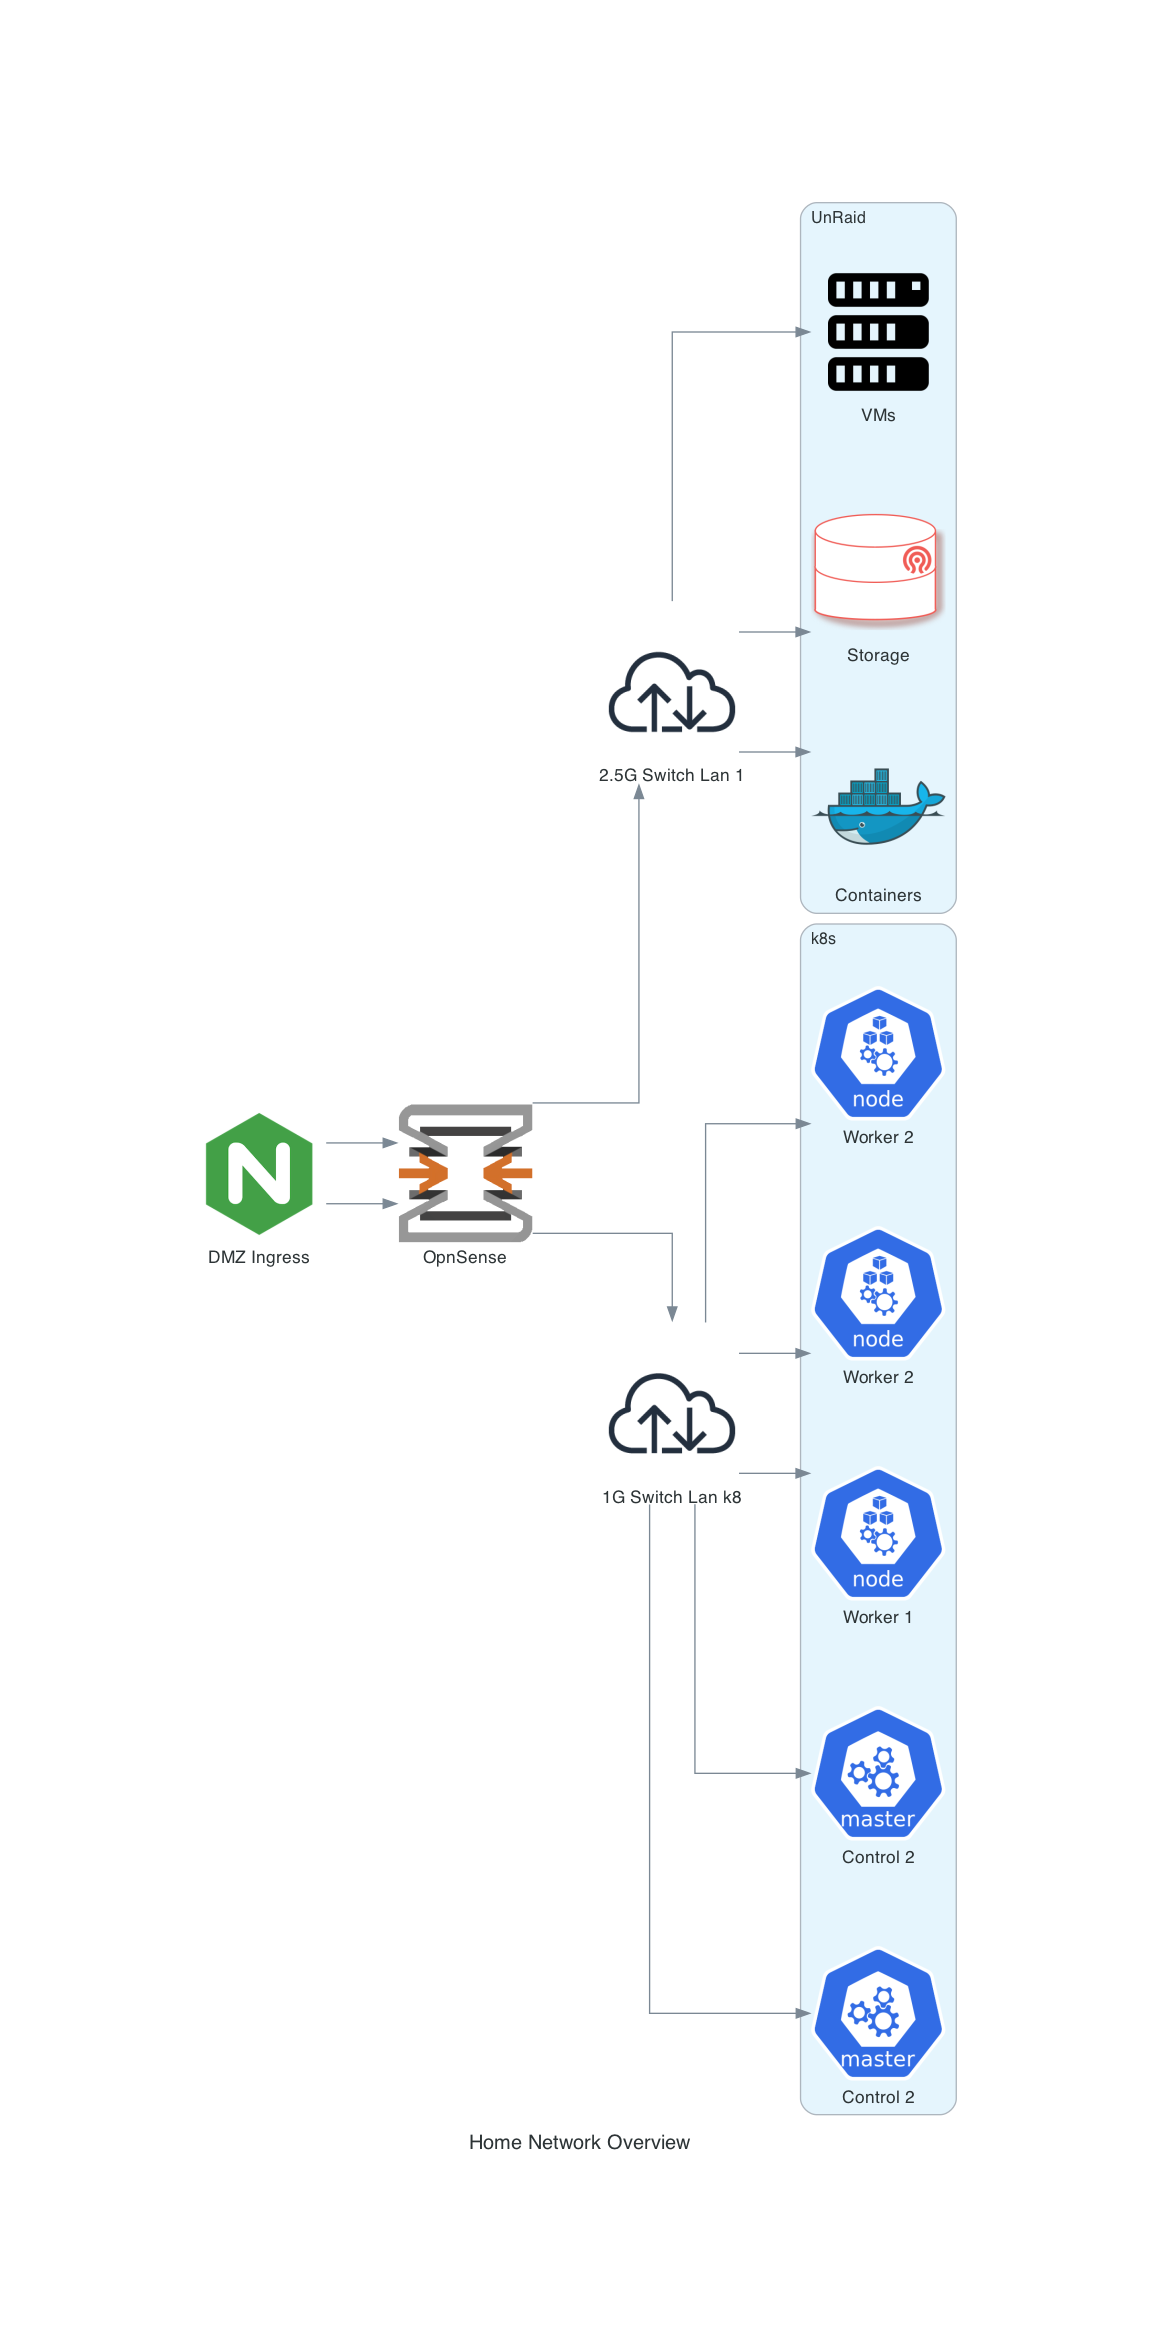
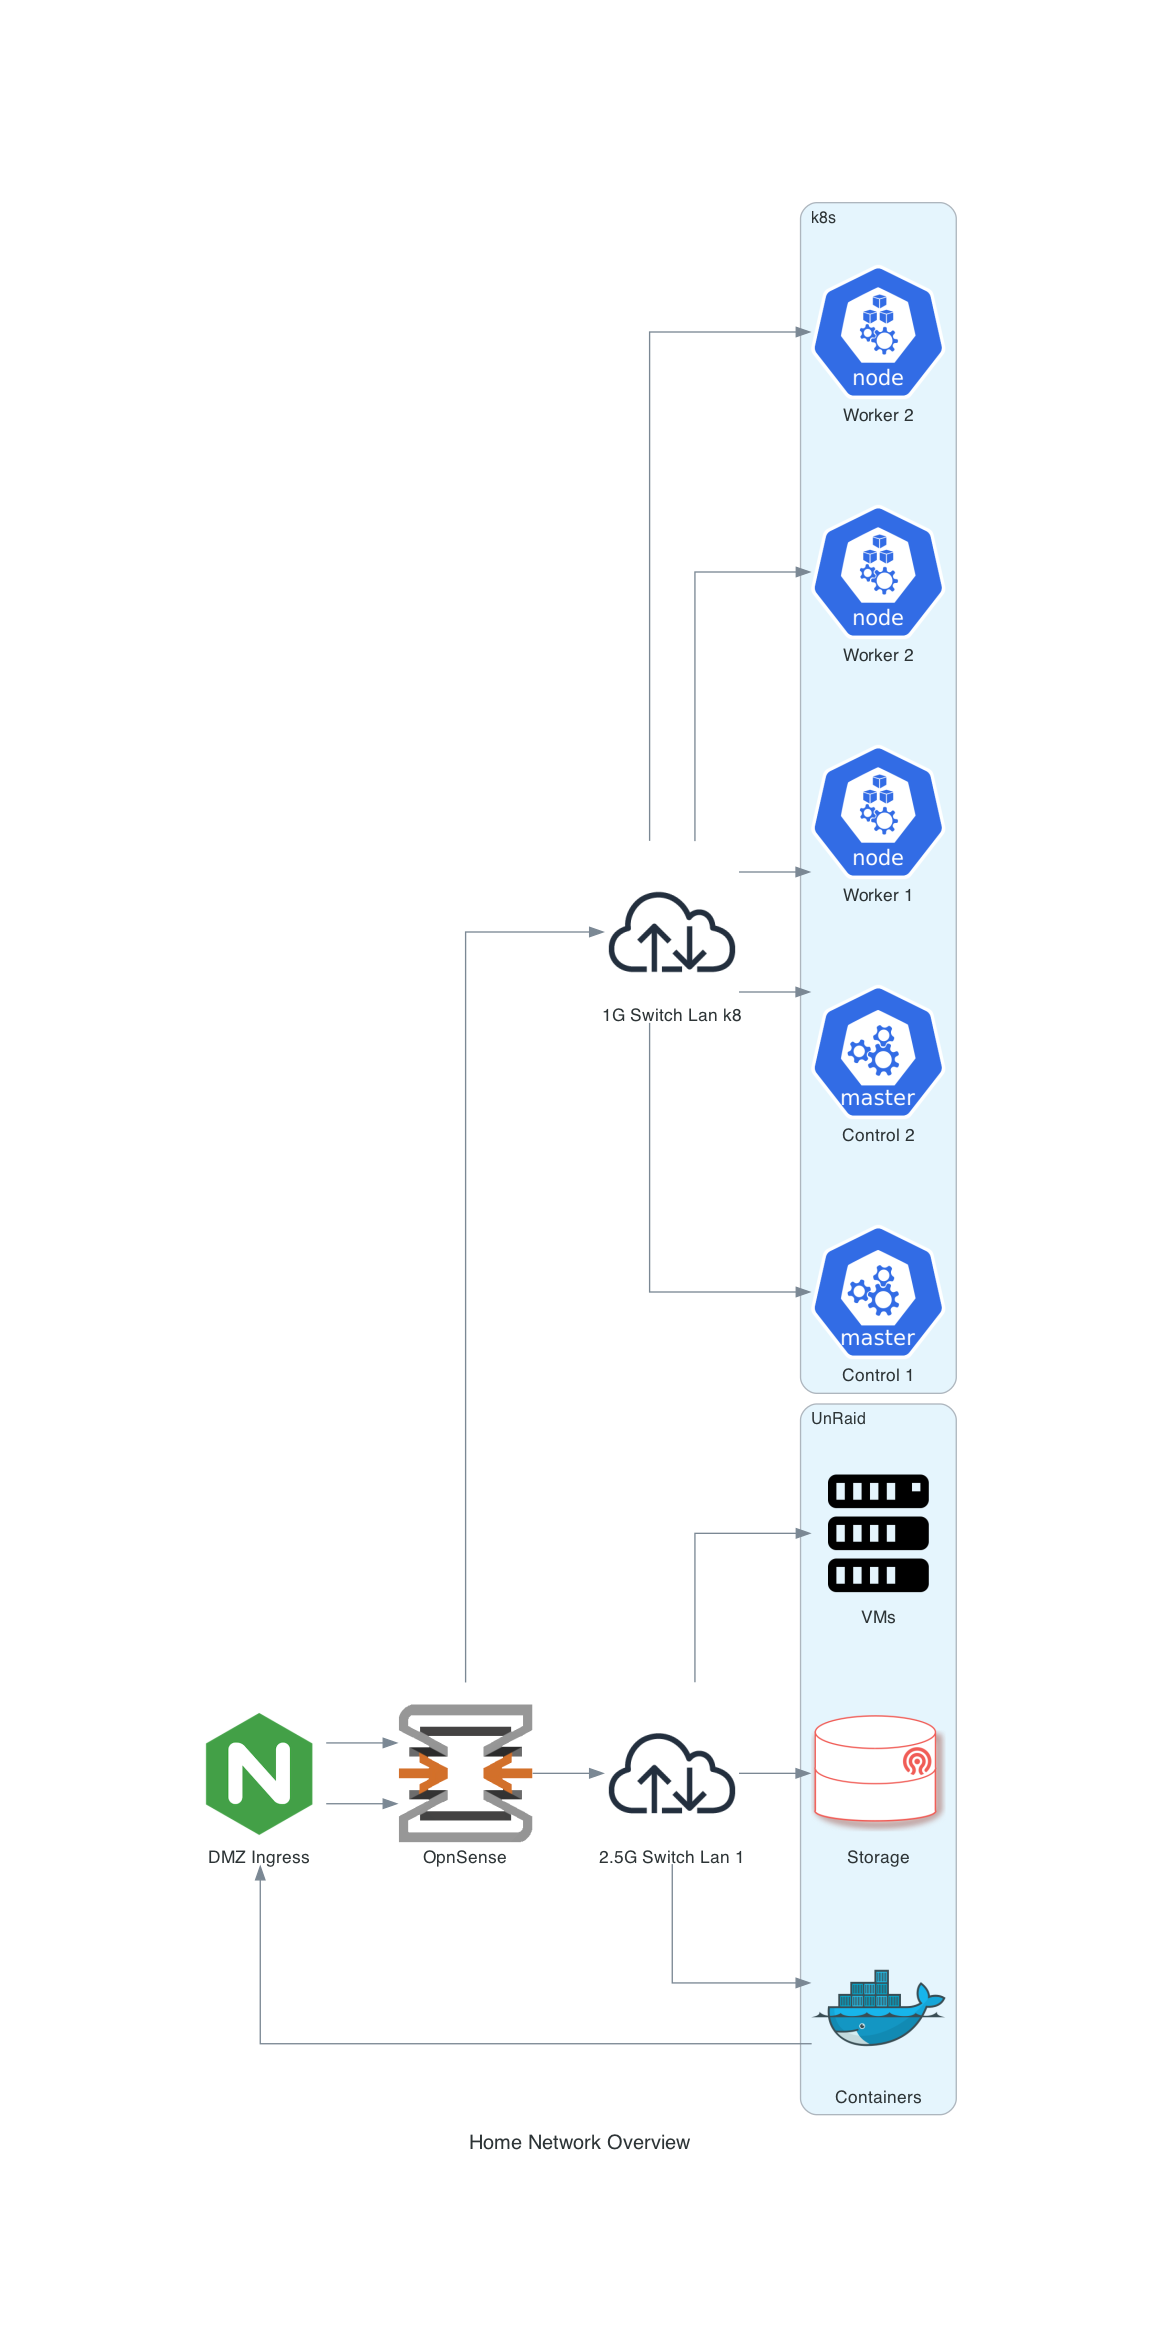
chore(diagram): Updates

diff --git a/diagram.py b/diagram.py
@@ -18,7 +18,7 @@ with Diagram("Home Network Overview", show=True):
     one_gb_switch = Internet("1G Switch Lan k8")
     with Cluster("k8s"):
         k8s = [
-            Master("Control 2"),
+            Master("Control 1"),
             Master("Control 2"),
             Node("Worker 1"),
             Node("Worker 2"),
@@ -28,3 +28,4 @@ with Diagram("Home Network Overview", show=True):
 
     dmz_ingress >> opnsense >> multi_gig_switch >> unraid
     dmz_ingress >> opnsense >> one_gb_switch >> k8s
+    dmz_ingress << unraid[0]
